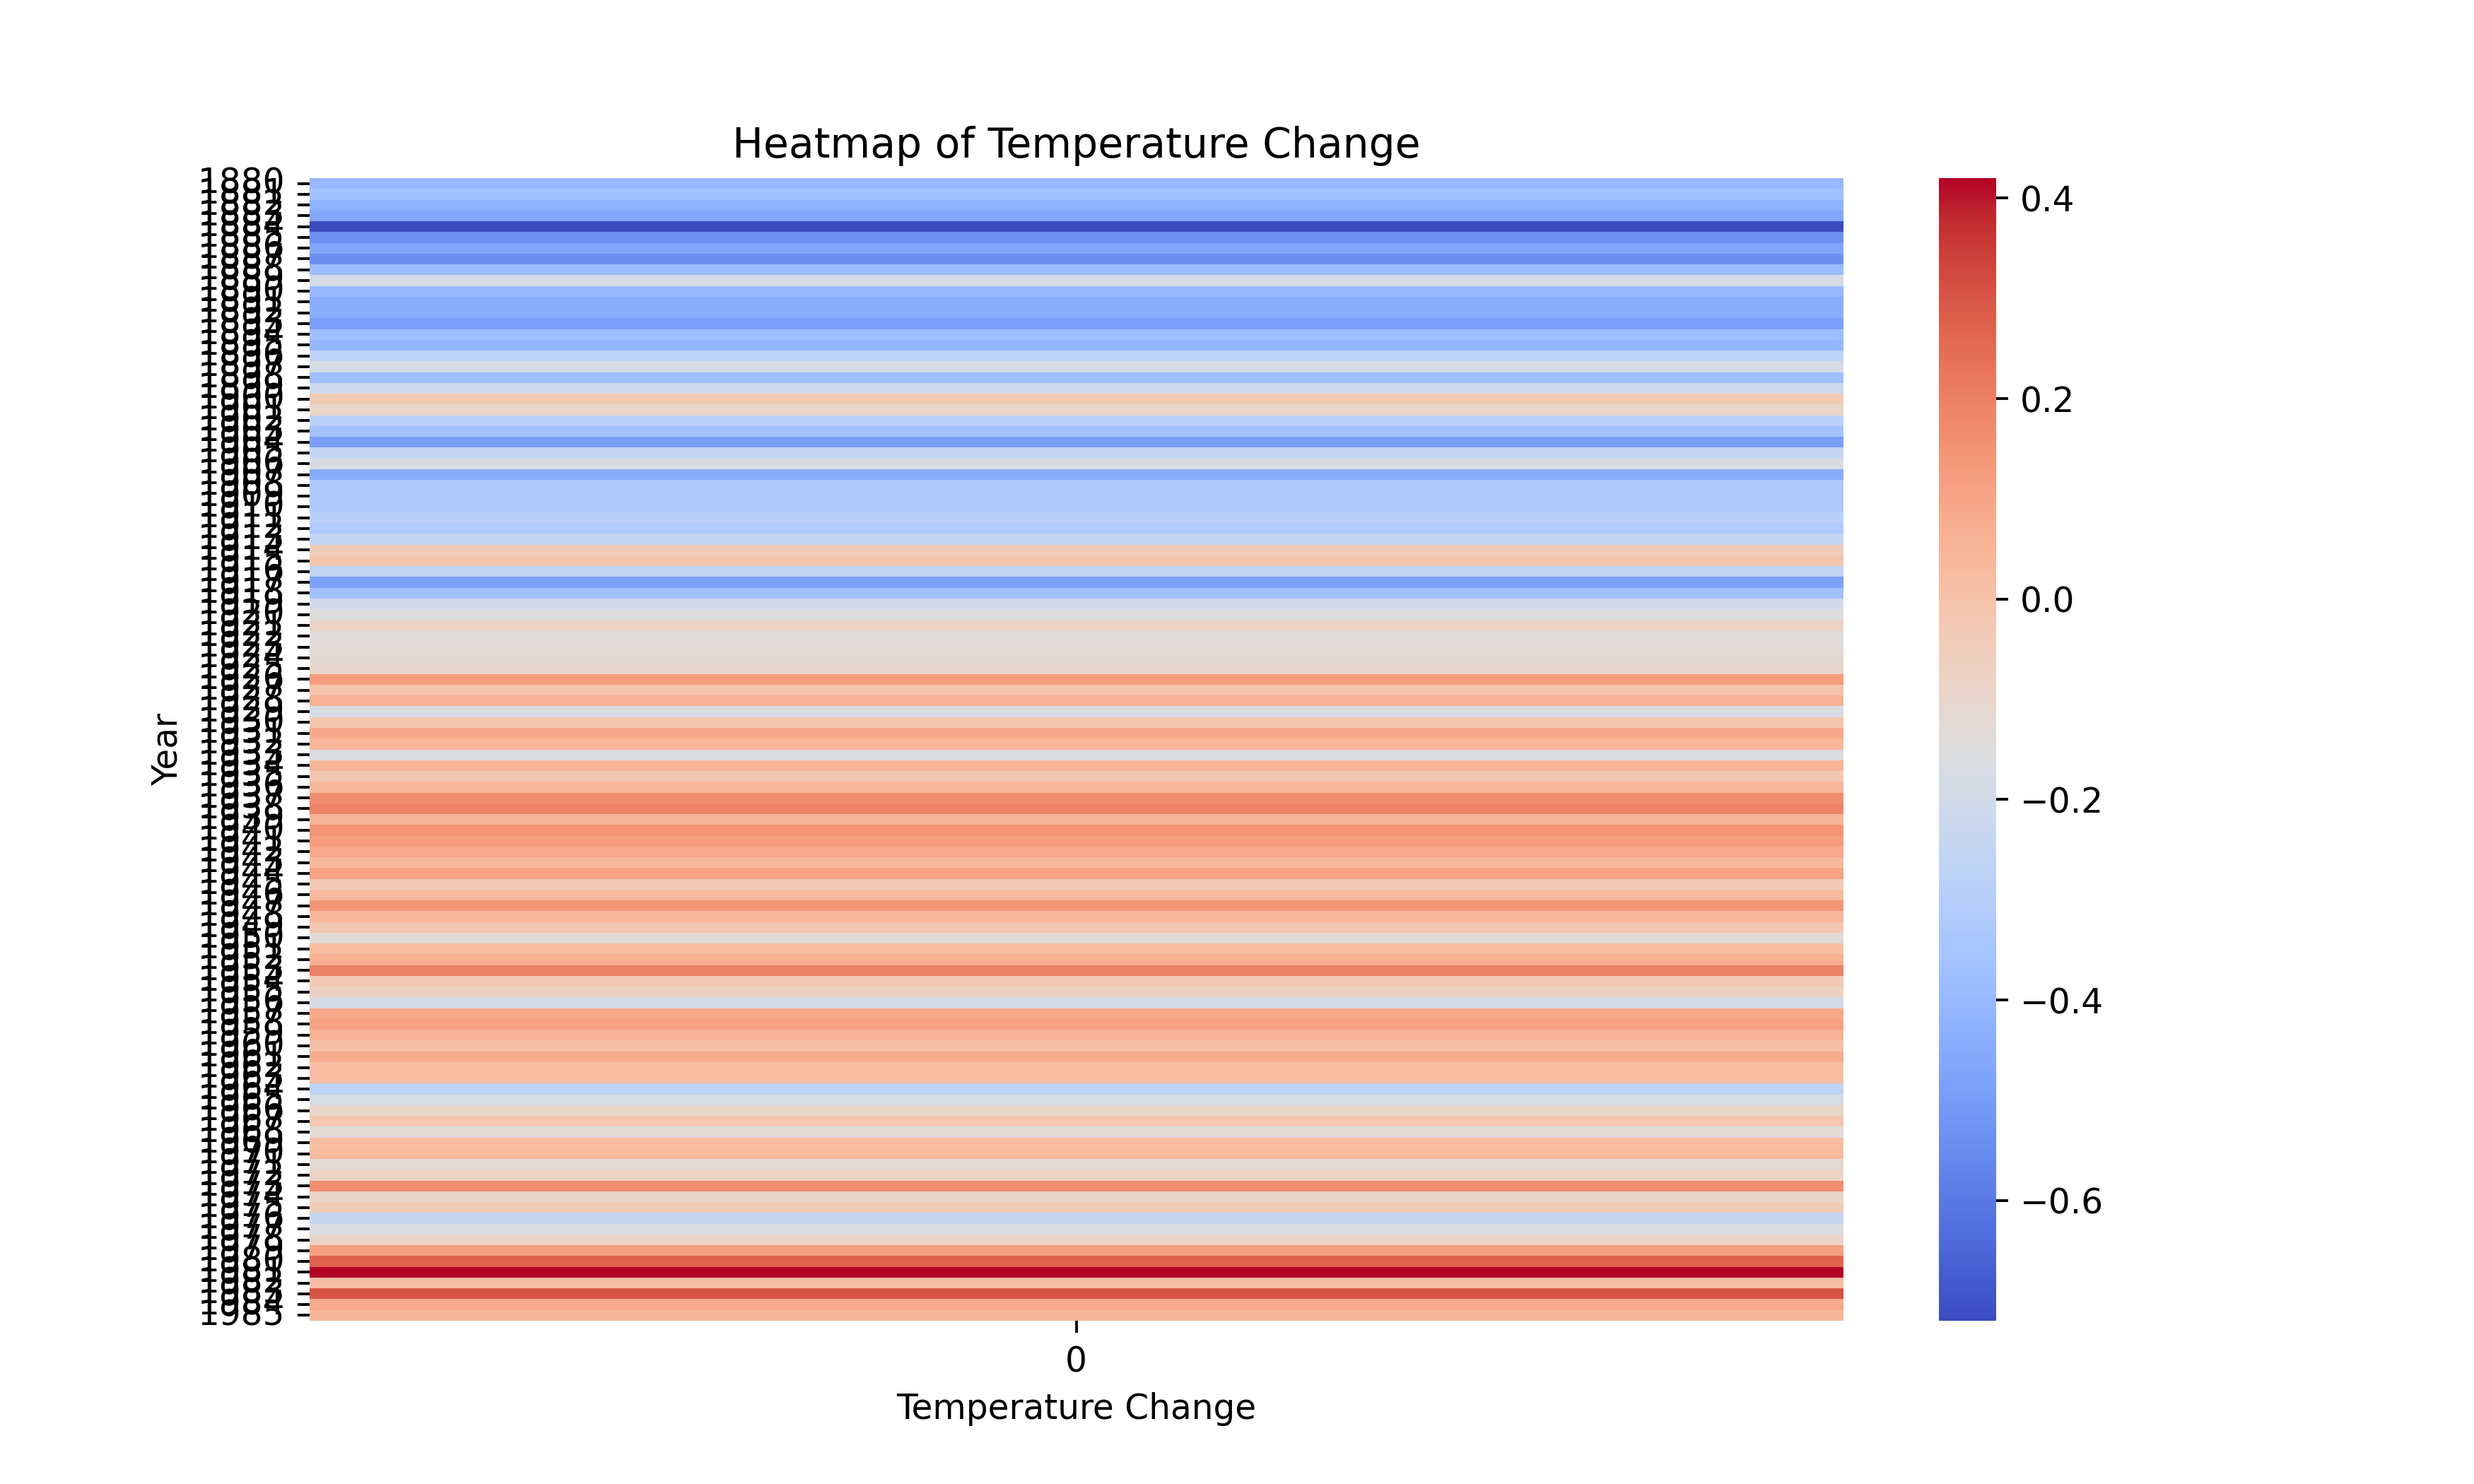
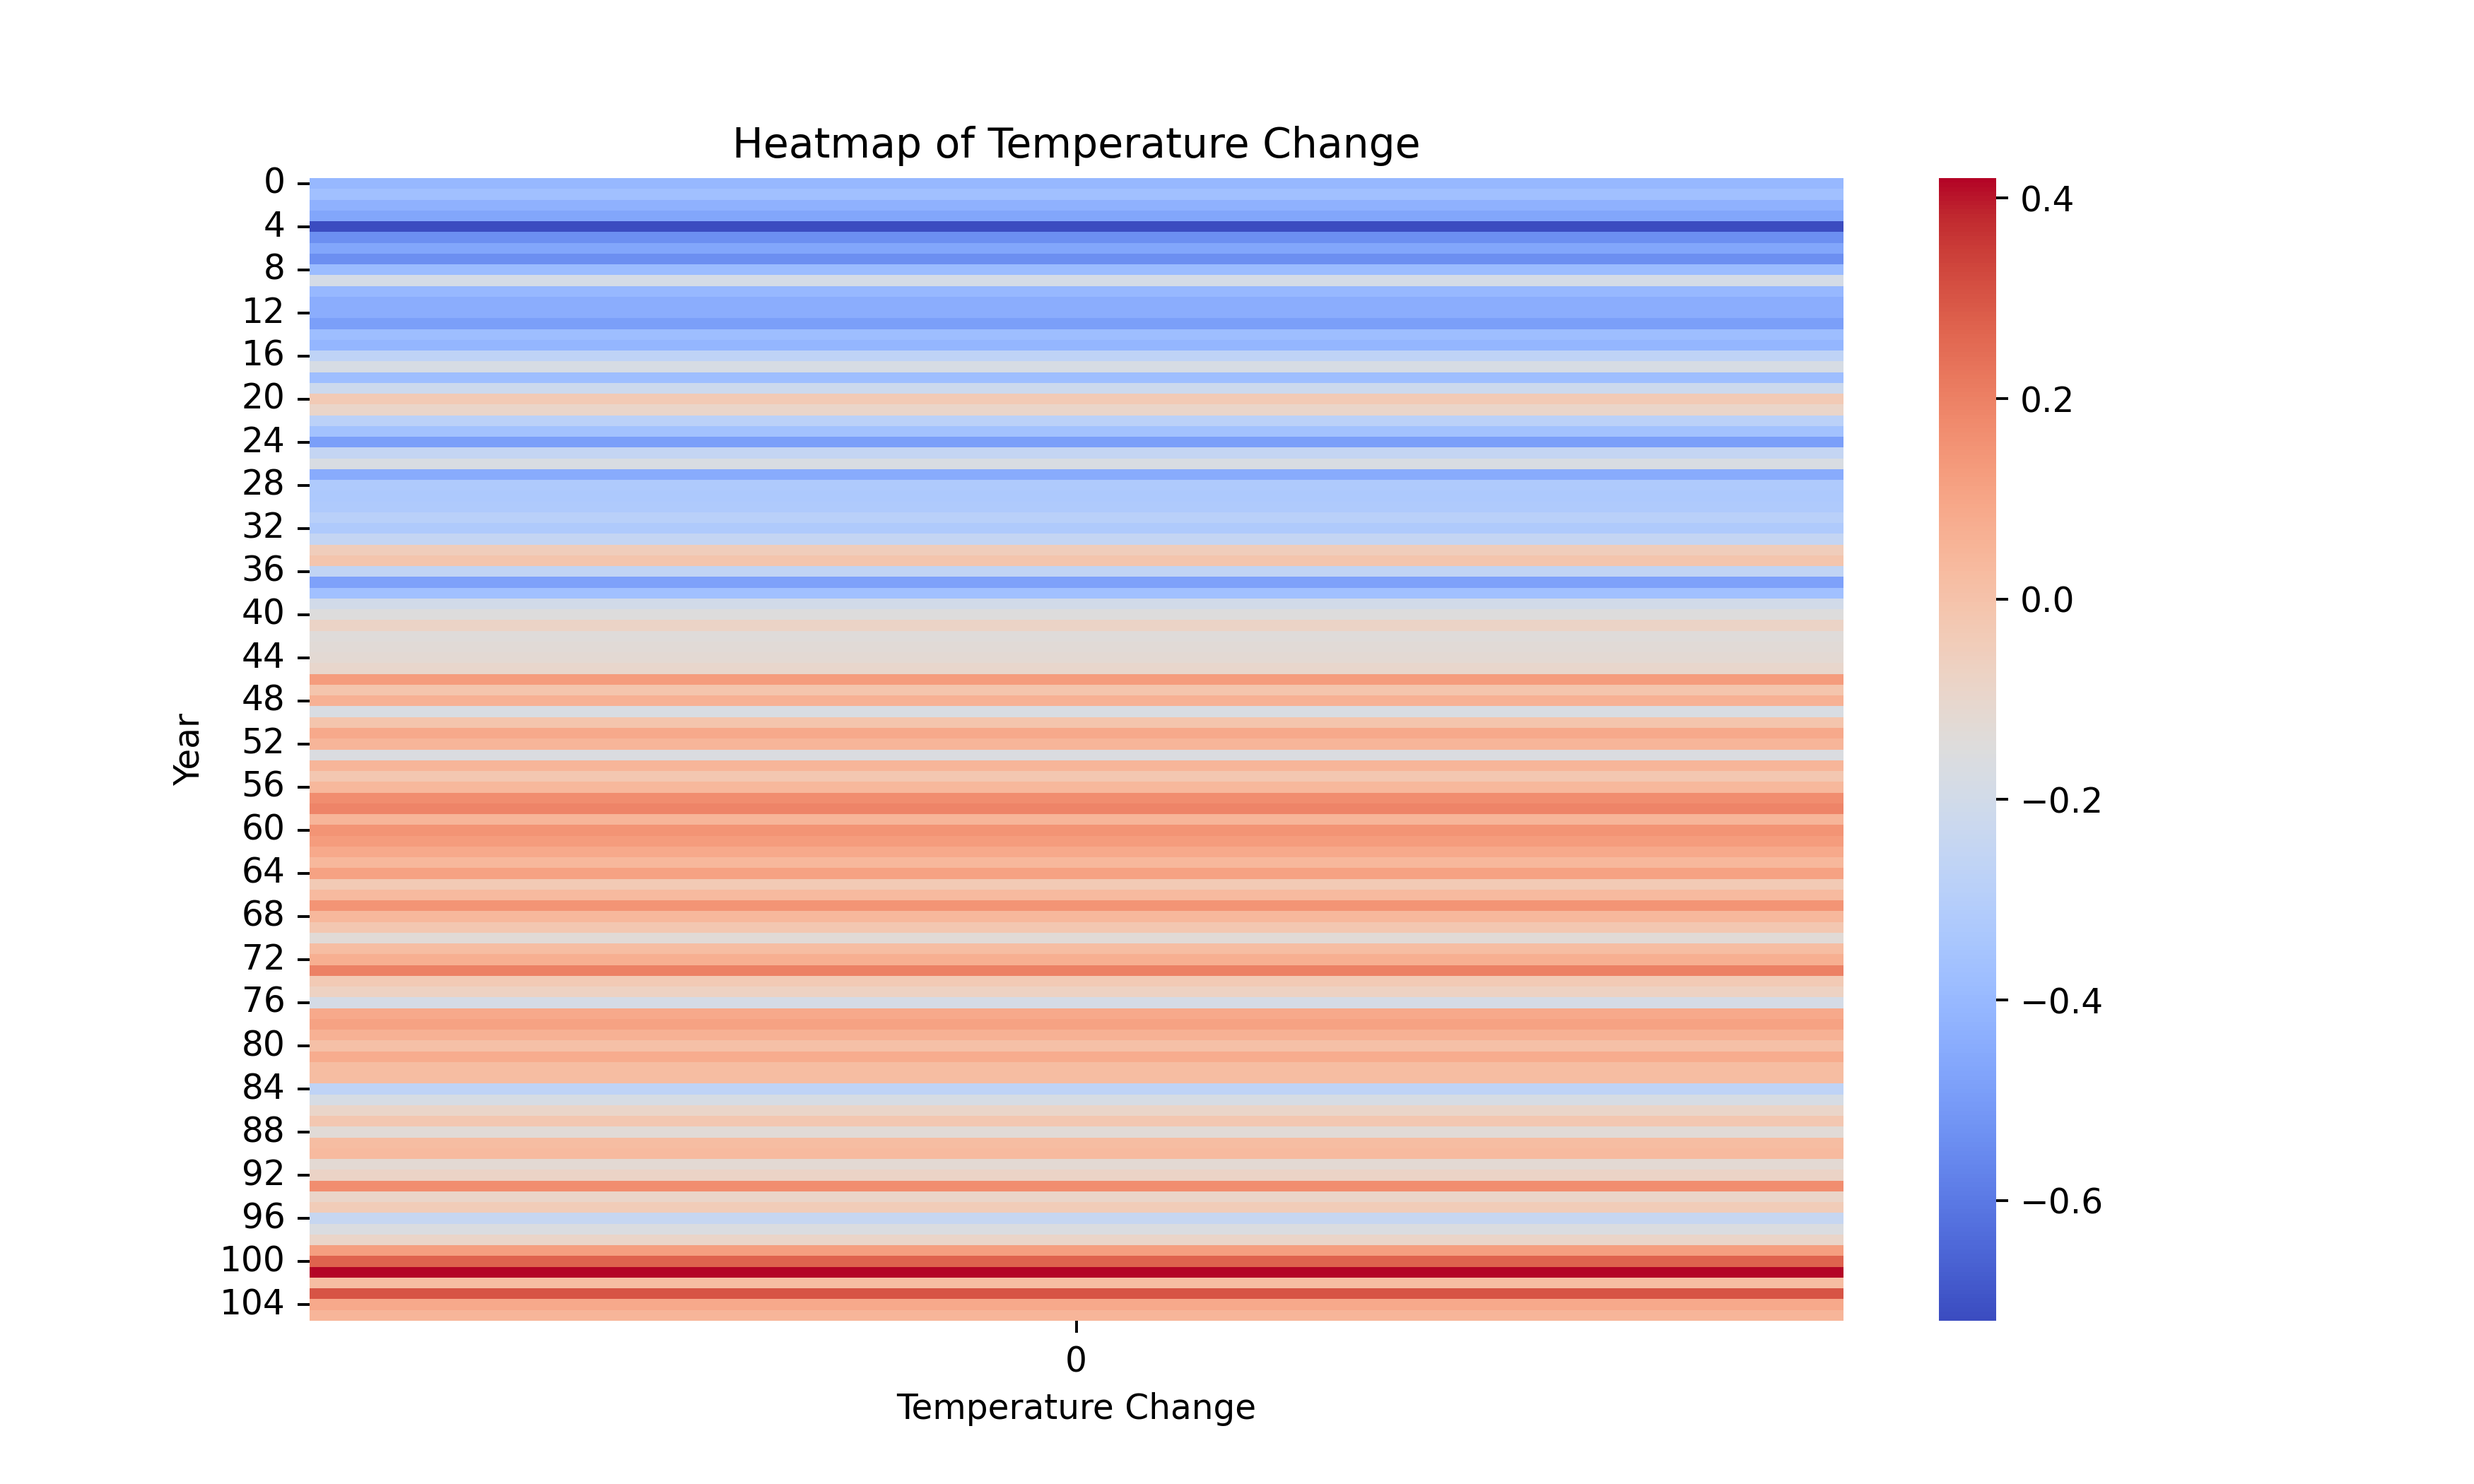
Add task6

Changed region(s): [[0.0623, 0.0929, 0.1246, 0.8976]]

diff --git a/task6.py b/task6.py
@@ -1,0 +1,139 @@
+import numpy as np
+import pandas as pd
+import matplotlib.pyplot as plt
+from statsmodels.tsa.stattools import adfuller
+from statsmodels.graphics.tsaplots import plot_acf
+
+# Remove linear trend
+# Generate synthetic series with a linear trend
+t = np.arange(100)
+linear_trend = 0.5 * t  # Linear trend
+series = linear_trend + np.random.normal(0, 1, 100)  # Add noise
+
+# ADF test for original series
+linear_adf_result = adfuller(series)
+print('Original ADF Statistic:', linear_adf_result[0])
+print('Original p-value:', linear_adf_result[1])
+print()
+
+# Differencing
+diff_series = np.diff(series)
+
+# ADF test for differenced series
+linear_adf_result_diff = adfuller(diff_series)
+print('Differenced ADF Statistic:', linear_adf_result_diff[0])
+print('Differenced p-value:', linear_adf_result_diff[1])
+print()
+
+# Plot
+plt.figure(figsize=(12, 6))
+plt.subplot(2, 1, 1)
+plt.plot(series, label="Original Series")
+plt.title("Before Differencing")
+plt.legend()
+
+plt.subplot(2, 1, 2)
+plt.plot(diff_series, label="Differenced Series")
+plt.title("After Differencing")
+plt.legend()
+plt.savefig('pics/remove_linear.png', dpi=350)
+plt.close()
+
+# Remove exponential trend
+
+# Generate synthetic series with an exponential trend
+exponential_trend = np.exp(0.05 * t)  # Exponential trend
+series_exp = exponential_trend + np.random.normal(0, 1, 100)  # Add noise
+
+# Log transformation
+log_series = np.log(series_exp)
+
+# Convert to pandas Series
+log_series = pd.Series(log_series)
+
+# Differencing
+diff_log_series = log_series.diff().dropna()
+
+# ADF test
+exponential_adf_result = adfuller(series_exp)
+print('Exponential ADF Statistic:', exponential_adf_result[0])
+print('Exponential p-value:', exponential_adf_result[1])
+print()
+
+log_adf_result = adfuller(log_series.dropna())
+print('Log ADF Statistic:', log_adf_result[0])
+print('Log p-value:', log_adf_result[1])
+print()
+
+diff_log_adf_result = adfuller(diff_log_series)
+print('Differenced Log ADF Statistic:', diff_log_adf_result[0])
+print('Differenced Log p-value:', diff_log_adf_result[1])
+print()
+
+# Plot
+plt.figure(figsize=(12, 8))
+plt.subplot(2, 2, 1)
+plt.plot(series_exp, label="Original Series")
+plt.title("Before Transformation")
+plt.legend()
+
+plt.subplot(2, 2, 2)
+plt.plot(log_series, label="Log Transformed Series")
+plt.title("After Log Transformation")
+plt.legend()
+
+plt.subplot(2, 2, 3)
+plt.plot(diff_log_series, label="Differenced Log Series")
+plt.title("After Differencing")
+plt.legend()
+plt.savefig('pics/remove_exponential.png', dpi=350)
+# plt.show()
+plt.close()
+
+# Remove seasonal trend
+
+# Generate synthetic series with a seasonal trend
+np.random.seed(42)
+t = np.arange(100)
+seasonal_period = 12  # Seasonal period
+seasonal_trend = 15 * np.sin(2 * np.pi * t / seasonal_period)  # Seasonal trend
+noise = np.random.normal(0, 1, 100)  # Add noise
+series = seasonal_trend + noise
+
+# Differencing with different orders
+diff_orders = [1, 2, 5, 6, 8, 12]  # Different differencing orders
+
+for order in diff_orders:
+    diff_series = np.diff(series, n=order)
+    
+    plt.figure(figsize=(14, 10))
+    
+    # Plot differenced series
+    plt.subplot(2, 1, 1)
+    plt.plot(diff_series, label=f"Diff Order={order}")
+    plt.title(f"Differenced Series (Order={order})")
+    plt.legend()
+    plt.grid(True)
+    
+    # Plot ACF of differenced series
+    plt.subplot(2, 1, 2)
+    plot_acf(diff_series, lags=24, ax=plt.gca(), alpha=0.05, zero=False)
+    plt.title(f"ACF (Order={order})")
+    plt.grid(True)
+    
+    plt.tight_layout()
+    # plt.show()
+    plt.savefig(f'pics/differenced_series_acf_order_{order}.png', dpi=350)
+    plt.close()
+
+# ADF test for differenced series
+
+for order in diff_orders:
+    diff_series = np.diff(series, n=order)
+    adf_result = adfuller(diff_series)
+    print(f"ADF Test (Order={order}):")
+    # print(f"ADF Statistic: {adf_result[0]}")
+    print(f"p-value: {adf_result[1]}")
+    # print(f"Critical Values: {adf_result[4]}")
+    print()
+####################

diff --git a/season.py b/season.py
@@ -1,0 +1,90 @@
+import numpy as np
+import matplotlib.pyplot as plt
+from statsmodels.graphics.tsaplots import plot_acf
+import os
+from statsmodels.tsa.stattools import adfuller
+
+# Create directory for saving plots
+if not os.path.exists('pics'):
+    os.makedirs('pics')
+
+# Generate synthetic series with a seasonal trend
+np.random.seed(42)
+t = np.arange(200)
+seasonal_period = 12  # Seasonal period
+seasonal_trend = 10 * np.sin(2 * np.pi * t / seasonal_period)  # Strong seasonal trend
+noise = np.random.normal(0, 1, 200)  # Add noise
+series = seasonal_trend + noise
+
+# Differencing with different orders
+diff_orders = [1, 2, 5, 6, 8, 12]  # Different differencing orders
+
+
+for order in diff_orders:
+    diff_series = np.diff(series, n=order)
+    
+    plt.figure(figsize=(14, 10))
+    
+    # Plot differenced series
+    plt.subplot(2, 1, 1)
+    plt.plot(diff_series, label=f"Diff Order={order}")
+    plt.title(f"Differenced Series (Order={order})")
+    plt.legend()
+    plt.grid(True)
+    
+    # Plot ACF of differenced series
+    plt.subplot(2, 1, 2)
+    plot_acf(diff_series, lags=24, ax=plt.gca(), alpha=0.05, zero=False)
+    plt.title(f"ACF (Order={order})")
+    plt.grid(True)
+    
+    plt.tight_layout()
+    # plt.show()
+    plt.savefig(f'pics/differenced_series_acf_order_{order}.png', dpi=350)
+    plt.close()
+
+# ADF test for differenced series
+
+for order in diff_orders:
+    diff_series = np.diff(series, n=order)
+    adf_result = adfuller(diff_series)
+    print(f"ADF Test (Order={order}):")
+    # print(f"ADF Statistic: {adf_result[0]}")
+    print(f"p-value: {adf_result[1]}")
+    # print(f"Critical Values: {adf_result[4]}")
+    print()
+
+# for order in diff_orders:
+#     diff_series = np.diff(series, n=order)
+    
+#     # Plot differenced series and ACF
+#     plt.figure(figsize=(14, 15))
+#     plt.subplot(2, 1, 1)
+#     plt.plot(diff_series, label=f"Diff Order={order}")
+#     plt.title(f"Differenced Series (Order={order})")
+#     plt.legend()
+#     plt.grid(True)
+
+#     plt.subplot(2, 1, 2)
+#     plot_acf(diff_series, lags=24)
+#     plt.title(f"ACF (Order={order})")
+#     plt.grid(True)
+#     plt.savefig(f'pics/differenced_series_order_{order}.png', dpi=350)
+#     plt.close()
+
+    # # Plot differenced series
+    # plt.figure(figsize=(10, 6))
+    # plt.plot(diff_series, label=f"Diff Order={order}")
+    # plt.title(f"Differenced Series (Order={order})")
+    # plt.legend()
+    # plt.grid(True)
+    # plt.savefig(f'pics/differenced_series_order_{order}.png', dpi=350)
+    # plt.close()
+
+    # # Plot ACF of differenced series
+    # plt.figure(figsize=(10, 6))
+    # plot_acf(diff_series, lags=24)
+    # plt.title(f"ACF (Order={order})")
+    # plt.grid(True)
+    # plt.savefig(f'pics/acf_order_{order}.png', dpi=350)
+    # plt.close()

diff --git a/task5.py b/task5.py
@@ -51,7 +51,7 @@ plt.close()
 
 # Heatmap
 plt.figure(figsize=(10, 6))
-sns.heatmap(data['Temperature change'].values.reshape(-1, 1), annot=False, cmap='coolwarm', cbar=True, yticklabels=data.index.astype(str))
+sns.heatmap(data['Temperature change'].values.reshape(-1, 1), annot=False, cmap='coolwarm', cbar=True)
 plt.title('Heatmap of Temperature Change')
 plt.xlabel('Temperature Change')
 plt.ylabel('Year')
@@ -218,3 +218,31 @@ plt.legend()
 plt.grid(True)
 plt.savefig('pics/prediction_forecast.png', dpi=350)
 plt.close()
+
+# # Save test results to output.csv
+# test_results = {
+#     'Original Ljung-Box Test Result': ljung_box_result,
+#     'First Order Ljung-Box Test Result': ljung_box_result_diff,
+#     'Second Order Ljung-Box Test Result': ljung_box_result_diff2,
+#     'Remainder Ljung-Box Test Result': ljung_box_result_remainder,
+#     'Original ADF p-value': [adf_result[1]],
+#     'First Order ADF p-value': [adf_result_diff[1]],
+#     'Second Order ADF p-value': [adf_result_diff2[1]],
+#     'Mean Squared Error': [mse],
+#     'AIC': [model.aic]
+# }
+
+# Save test results to output.csv
+test_results = {
+    'Original Ljung-Box p-value': ljung_box_result['lb_pvalue'].values,
+    'First Order Ljung-Box p-value': ljung_box_result_diff['lb_pvalue'].values,
+    'Second Order Ljung-Box p-value': ljung_box_result_diff2['lb_pvalue'].values,
+    'Remainder Ljung-Box p-value': ljung_box_result_remainder['lb_pvalue'].values,
+    'Original ADF p-value': [adf_result[1]],
+    'First Order ADF p-value': [adf_result_diff[1]],
+    'Second Order ADF p-value': [adf_result_diff2[1]],
+    'Mean Squared Error': [mse],
+    'AIC': [model.aic]
+}
+test_results_df = pd.DataFrame(test_results)
+test_results_df.to_csv('output.csv', index=False)
